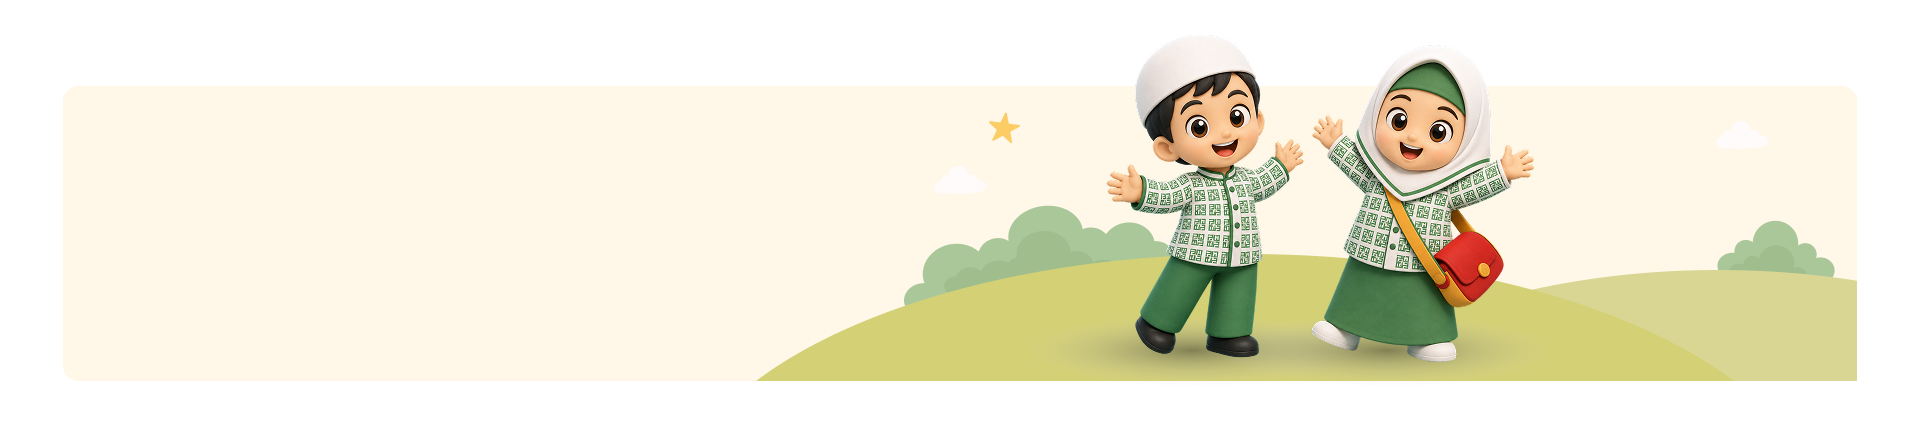
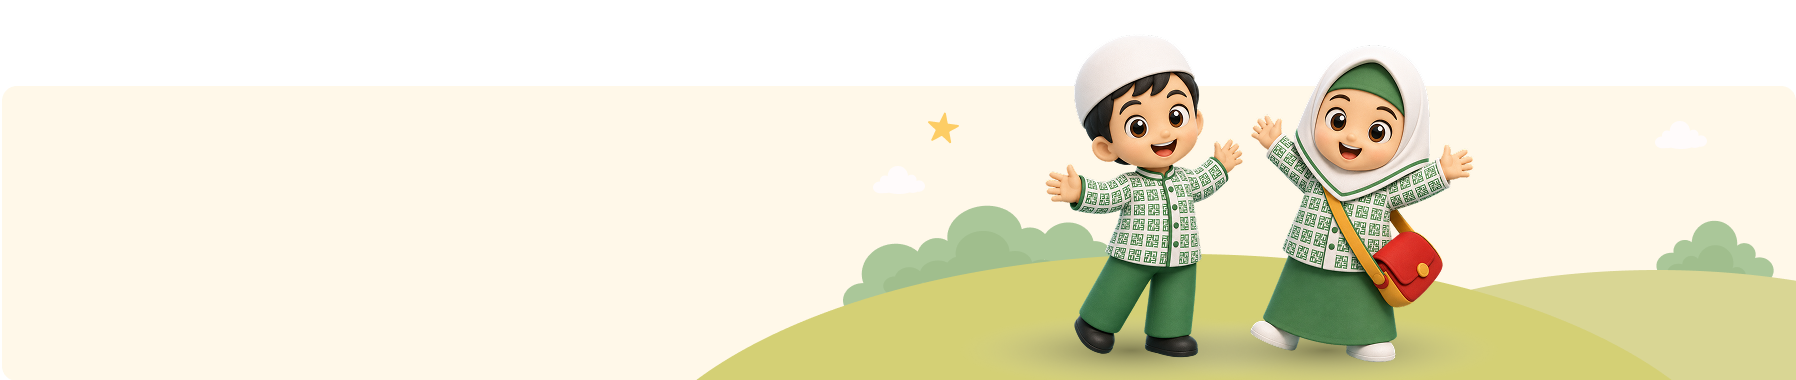
feat: add public landing page, SEO configurations, and static assets

Changed region(s): [[0.3742, 0.1158, 1.0, 1.0], [0.4989, 0.2605, 0.5301, 0.3763]]

diff --git a/app/(public)/page.tsx b/app/(public)/page.tsx
@@ -453,9 +453,9 @@ export default function HomePage() {
             "@context": "https://schema.org",
             "@type": "School",
             "name": "KB & TK Istiqamah Bandung",
-            "url": "https://tkistiqamah.sch.id",
-            "logo": "https://tkistiqamah.sch.id/images/school_logo.png",
-            "image": "https://tkistiqamah.sch.id/images/hero_bg_2x.png",
+            "url": "https://tkistiqamah.com",
+            "logo": "https://tkistiqamah.com/images/school_logo.png",
+            "image": "https://tkistiqamah.com/images/hero_bg_2x.png",
             "description": "Website Resmi KB & TK Istiqamah Bandung. Mengembangkan potensi buah hati melalui bermain kreatif, pengenalan akhlak mulia sejak dini, dan kurikulum Islami terarah.",
             "address": {
               "@type": "PostalAddress",
@@ -466,7 +466,7 @@ export default function HomePage() {
               "addressCountry": "ID"
             },
             "telephone": "022-4241799",
-            "email": "info@tkistiqamah.sch.id",
+            "email": "info@tkistiqamah.com",
             "sameAs": [
               "https://www.instagram.com/kbtkistiqamah",
               "https://www.facebook.com/TK-Istiqamah-Bandung"
@@ -560,7 +560,7 @@ export default function HomePage() {
                     {item.iconType === 'lifeskill' && (
                       <svg viewBox="0 0 40 40" fill="none" stroke="#1B3B6F" strokeWidth="2.5" strokeLinecap="round" strokeLinejoin="round" className="w-8 h-8 sm:w-10 sm:h-10">
                         <path d="M19 14.5C17.5 12.5 14.5 12.5 13 14C11.5 15.5 11.5 18.5 13.5 20.5L19 26L24.5 20.5C26.5 18.5 26.5 15.5 25 14C23.5 12.5 20.5 12.5 19 14.5Z" />
-                        <ellipse cx="23" cy="20" rx="5.5" ry="7" transform="rotate(30 23 20)" stroke="#1B3B6F" strokeWidth="2" fill="none"/>
+                        <ellipse cx="23" cy="20" rx="5.5" ry="7" transform="rotate(30 23 20)" stroke="#1B3B6F" strokeWidth="2" fill="none" />
                       </svg>
                     )}
                     {item.iconType === 'science' && (
@@ -574,17 +574,17 @@ export default function HomePage() {
                     )}
                     {item.iconType === 'quran' && (
                       <svg viewBox="0 0 40 40" fill="currentColor" className="w-8 h-8 sm:w-10 sm:h-10 text-[#1B3B6F]">
-                        <rect x="8" y="8" width="24" height="24" rx="4" fill="#1B3B6F"/>
-                        <rect x="11" y="27" width="18" height="3" rx="1.5" fill="#DCE8FA"/>
-                        <path d="M21.5 14C19.5 14 18 15.5 18 17.5C18 19.5 19.5 21 21.5 21C22.2 21 22.8 20.8 23.3 20.5C22.5 21.2 21.5 21.7 20.3 21.7C17.9 21.7 16 19.8 16 17.4C16 15 17.9 13.1 20.3 13.1C20.7 13.1 21.1 13.2 21.5 13.3V14Z" fill="#FFFFFF"/>
-                        <polygon points="22.5,16.5 23.2,17.7 24.5,17.8 23.5,18.7 23.8,20 22.5,19.3 21.2,20 21.5,18.7 20.5,17.8 21.8,17.7" fill="#FFFFFF"/>
+                        <rect x="8" y="8" width="24" height="24" rx="4" fill="#1B3B6F" />
+                        <rect x="11" y="27" width="18" height="3" rx="1.5" fill="#DCE8FA" />
+                        <path d="M21.5 14C19.5 14 18 15.5 18 17.5C18 19.5 19.5 21 21.5 21C22.2 21 22.8 20.8 23.3 20.5C22.5 21.2 21.5 21.7 20.3 21.7C17.9 21.7 16 19.8 16 17.4C16 15 17.9 13.1 20.3 13.1C20.7 13.1 21.1 13.2 21.5 13.3V14Z" fill="#FFFFFF" />
+                        <polygon points="22.5,16.5 23.2,17.7 24.5,17.8 23.5,18.7 23.8,20 22.5,19.3 21.2,20 21.5,18.7 20.5,17.8 21.8,17.7" fill="#FFFFFF" />
                       </svg>
                     )}
                     {item.iconType === 'character' && (
                       <svg viewBox="0 0 40 40" fill="currentColor" className="w-8 h-8 sm:w-10 sm:h-10 text-[#1B3B6F]">
-                        <path d="M20 9C15.5 9 13 12.5 13 17C13 22 14.5 27 15.5 30H24.5C25.5 27 27 22 27 17C27 12.5 24.5 9 20 9Z" fill="#1B3B6F"/>
-                        <ellipse cx="20" cy="18" rx="4.5" ry="5.5" fill="#DCE8FA"/>
-                        <path d="M20 15L21 17.5H23.5L21.5 19L22.2 21.5L20 20L17.8 21.5L18.5 19L16.5 17.5H19L20 15Z" fill="#1B3B6F"/>
+                        <path d="M20 9C15.5 9 13 12.5 13 17C13 22 14.5 27 15.5 30H24.5C25.5 27 27 22 27 17C27 12.5 24.5 9 20 9Z" fill="#1B3B6F" />
+                        <ellipse cx="20" cy="18" rx="4.5" ry="5.5" fill="#DCE8FA" />
+                        <path d="M20 15L21 17.5H23.5L21.5 19L22.2 21.5L20 20L17.8 21.5L18.5 19L16.5 17.5H19L20 15Z" fill="#1B3B6F" />
                       </svg>
                     )}
                   </div>
@@ -652,11 +652,10 @@ export default function HomePage() {
                         type="button"
                         onClick={() => setActivePillar(idx)}
                         aria-label={`Pilar: ${pillar.title}`}
-                        className={`relative w-14 h-14 sm:w-16 sm:h-16 md:w-20 md:h-20 rounded-2xl p-2 sm:p-2.5 cursor-pointer transition-all duration-300 shadow-md ${
-                          isActive
-                            ? 'bg-white ring-4 ring-amber-300 scale-110 opacity-100 shadow-xl'
-                            : 'bg-white/90 hover:bg-white hover:scale-105 opacity-80 hover:opacity-100'
-                        }`}
+                        className={`relative w-14 h-14 sm:w-16 sm:h-16 md:w-20 md:h-20 rounded-2xl p-2 sm:p-2.5 cursor-pointer transition-all duration-300 shadow-md ${isActive
+                          ? 'bg-white ring-4 ring-amber-300 scale-110 opacity-100 shadow-xl'
+                          : 'bg-white/90 hover:bg-white hover:scale-105 opacity-80 hover:opacity-100'
+                          }`}
                       >
                         <div className="relative w-full h-full">
                           <Image
@@ -771,11 +770,10 @@ export default function HomePage() {
                       }
                     }}
                     aria-label={`Program ${idx + 1}${isActive ? ' (Klik untuk ke program selanjutnya)' : ''}`}
-                    className={`transition-all duration-300 rounded-full cursor-pointer ${
-                      isActive
-                        ? 'w-6 sm:w-7 h-2 bg-[#1B3B6F] shadow-sm'
-                        : 'w-2 h-2 bg-[#1B3B6F]/30 hover:bg-[#1B3B6F]/70'
-                    }`}
+                    className={`transition-all duration-300 rounded-full cursor-pointer ${isActive
+                      ? 'w-6 sm:w-7 h-2 bg-[#1B3B6F] shadow-sm'
+                      : 'w-2 h-2 bg-[#1B3B6F]/30 hover:bg-[#1B3B6F]/70'
+                      }`}
                   />
                 )
               })}
@@ -886,11 +884,10 @@ export default function HomePage() {
                       type="button"
                       onClick={() => scrollToFacility(idx)}
                       aria-label={`Fasilitas ${idx + 1}`}
-                      className={`transition-all duration-300 rounded-full cursor-pointer ${
-                        isActive
-                          ? 'w-6 sm:w-7 h-2 bg-[#F5B744] shadow-sm'
-                          : 'w-2 h-2 bg-white/40 hover:bg-white/70'
-                      }`}
+                      className={`transition-all duration-300 rounded-full cursor-pointer ${isActive
+                        ? 'w-6 sm:w-7 h-2 bg-[#F5B744] shadow-sm'
+                        : 'w-2 h-2 bg-white/40 hover:bg-white/70'
+                        }`}
                     />
                   )
                 })}
@@ -1104,15 +1101,13 @@ export default function HomePage() {
                       </span>
                       <ChevronDown
                         size={18}
-                        className={`text-[#0B7347] transition-transform duration-300 flex-shrink-0 ml-2 ${
-                          isOpen ? 'rotate-180' : ''
-                        }`}
+                        className={`text-[#0B7347] transition-transform duration-300 flex-shrink-0 ml-2 ${isOpen ? 'rotate-180' : ''
+                          }`}
                       />
                     </button>
                     <div
-                      className={`grid transition-all duration-300 ease-in-out ${
-                        isOpen ? 'grid-rows-[1fr] opacity-100' : 'grid-rows-[0fr] opacity-0'
-                      }`}
+                      className={`grid transition-all duration-300 ease-in-out ${isOpen ? 'grid-rows-[1fr] opacity-100' : 'grid-rows-[0fr] opacity-0'
+                        }`}
                     >
                       <div className="overflow-hidden">
                         <p className="px-3.5 pb-3.5 sm:px-4 sm:pb-4 text-xs sm:text-[13px] text-[#4A607A] leading-relaxed font-medium whitespace-pre-line">

diff --git a/app/layout.tsx b/app/layout.tsx
@@ -61,7 +61,20 @@ export const metadata: Metadata = {
       "max-image-preview": "large",
       "max-snippet": -1
     }
-  }
+  },
+  icons: {
+    icon: [
+      { url: "/favicon.ico", sizes: "any" },
+      { url: "/icon.png", type: "image/png", sizes: "32x32" },
+      { url: "/icon-192.png", type: "image/png", sizes: "192x192" },
+      { url: "/icon-512.png", type: "image/png", sizes: "512x512" },
+    ],
+    apple: [
+      { url: "/apple-touch-icon.png", sizes: "180x180", type: "image/png" },
+    ],
+    shortcut: "/favicon.ico",
+  },
+  manifest: "/site.webmanifest"
 };
 
 export default function RootLayout({

diff --git a/app/robots.ts b/app/robots.ts
@@ -1,7 +1,7 @@
 import { MetadataRoute } from 'next'
 
 export default function robots(): MetadataRoute.Robots {
-  const baseUrl = process.env.NEXT_PUBLIC_APP_URL || 'https://tkistiqamah.sch.id'
+  const baseUrl = process.env.NEXT_PUBLIC_APP_URL || 'https://tkistiqamah.com'
   return {
     rules: {
       userAgent: '*',

diff --git a/app/sitemap.ts b/app/sitemap.ts
@@ -1,7 +1,7 @@
 import { MetadataRoute } from 'next'
 
 export default function sitemap(): MetadataRoute.Sitemap {
-  const baseUrl = process.env.NEXT_PUBLIC_APP_URL || 'https://tkistiqamah.sch.id'
+  const baseUrl = process.env.NEXT_PUBLIC_APP_URL || 'https://tkistiqamah.com'
   return [
     {
       url: baseUrl,
